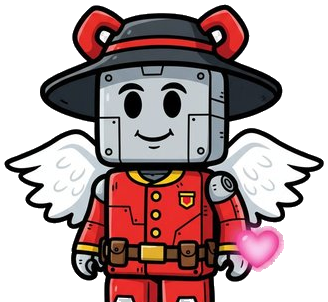
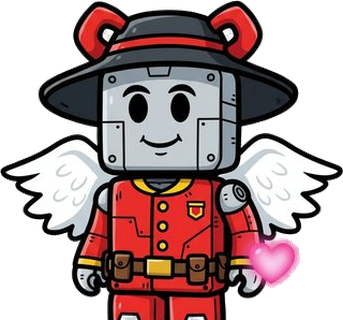
Add Cakini Elephantini (OG) + rebalance all character art
- New character: Cakini Elephantini, OG rarity, Partini class, 6.75x
- Trim transparent padding on all character PNGs so every character
  fills the card to a consistent size (the pair characters were
  rendering visibly smaller than single-character ones)
- Bump card image max-w 70→85%, max-h 85→92% for more visual presence
- Refresh Cakini Elephantini artwork

Changed region(s): [[0.0, 0.0, 1.0, 1.0]]

diff --git a/app/components/Projects.tsx b/app/components/Projects.tsx
@@ -29,6 +29,7 @@ const characters = [
   { name: "Cupidini Sahuroni",  file: "10_cupid_cupid_sahur.png",      rarity: "Legendary",    mult: "5.5x", color: "#ff1493", class: "Lovini" },
   { name: "Rositti Tueletti",   file: "11_rositti_tueletti.png",       rarity: "Rare",         mult: "6x",   color: "#ba55d3", class: "Lovini" },
   { name: "Birthdayini Cardini", file: "12_birthdayini_cardini.png",   rarity: "Brainrot God", mult: "6.5x", color: "#ffd700", class: "Partini" },
+  { name: "Cakini Elephantini", file: "13_cakini_elephantini.png",     rarity: "OG",           mult: "6.75x",color: "#9b8ec4", class: "Partini" },
   { name: "Pizzini Partyini",   file: "15_noobini_partyini.png",       rarity: "Brainrot God", mult: "7x",   color: "#2ecc71", class: "Partini" },
   { name: "Noo Mio Heartini",   file: "18_noo_my_heart.png",           rarity: "Rare",         mult: "8x",   color: "#8b0000", class: "Lovini" },
   { name: "Cupidini Hotspottini", file: "19_cupid_hotspot.png",        rarity: "Legendary",    mult: "9x",   color: "#ff4500", class: "Lovini" },
@@ -290,7 +291,7 @@ export default function Projects() {
                     src={project.image}
                     alt={project.title}
                     loading="lazy"
-                    className="max-w-[70%] max-h-[85%] object-contain transition-transform duration-500 ease-[cubic-bezier(0.16,1,0.3,1)] group-hover:scale-110"
+                    className="max-w-[85%] max-h-[92%] object-contain transition-transform duration-500 ease-[cubic-bezier(0.16,1,0.3,1)] group-hover:scale-110"
                     style={{ filter: `drop-shadow(0 0 15px ${project.glow}66)` }}
                   />
                 ) : project.category === "Backgrounds" && project.image ? (
